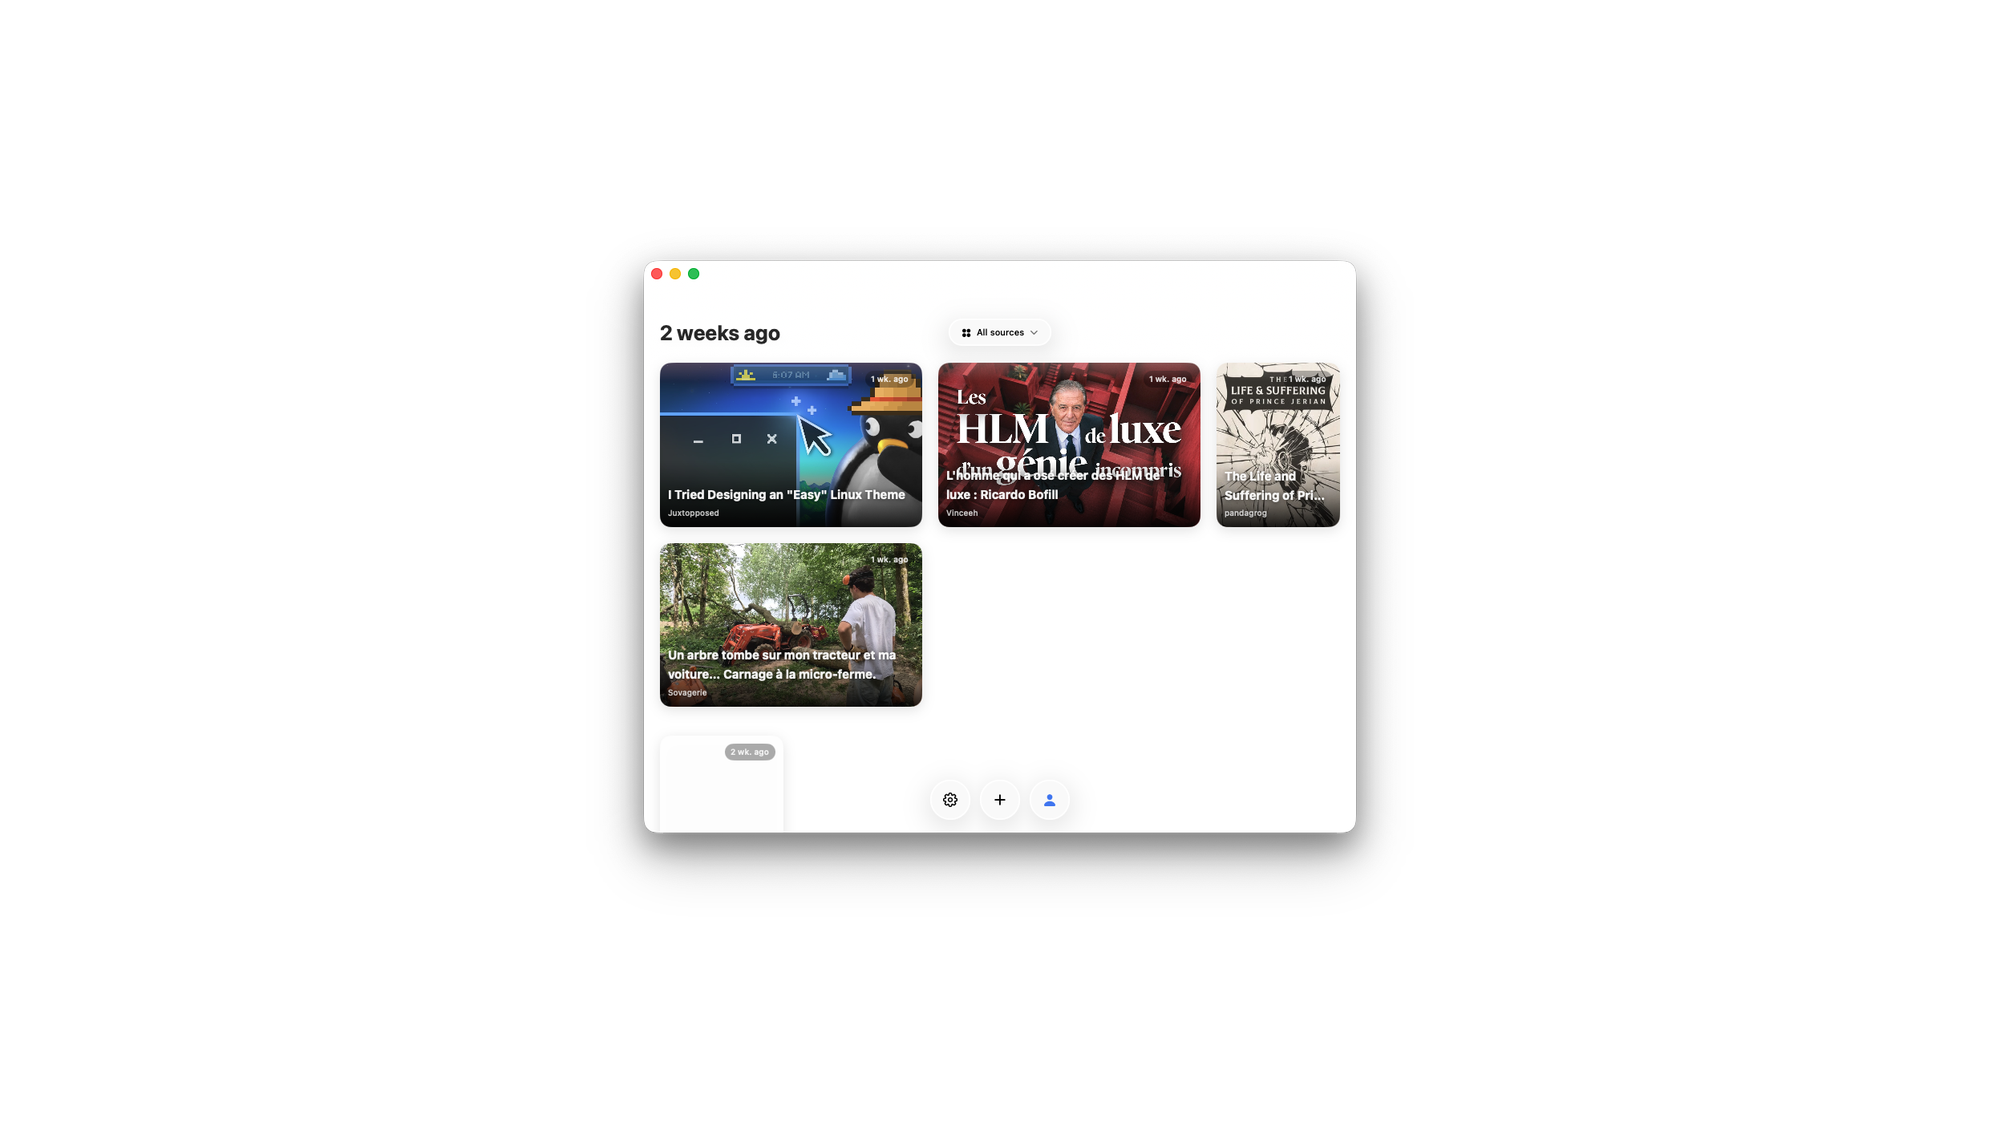
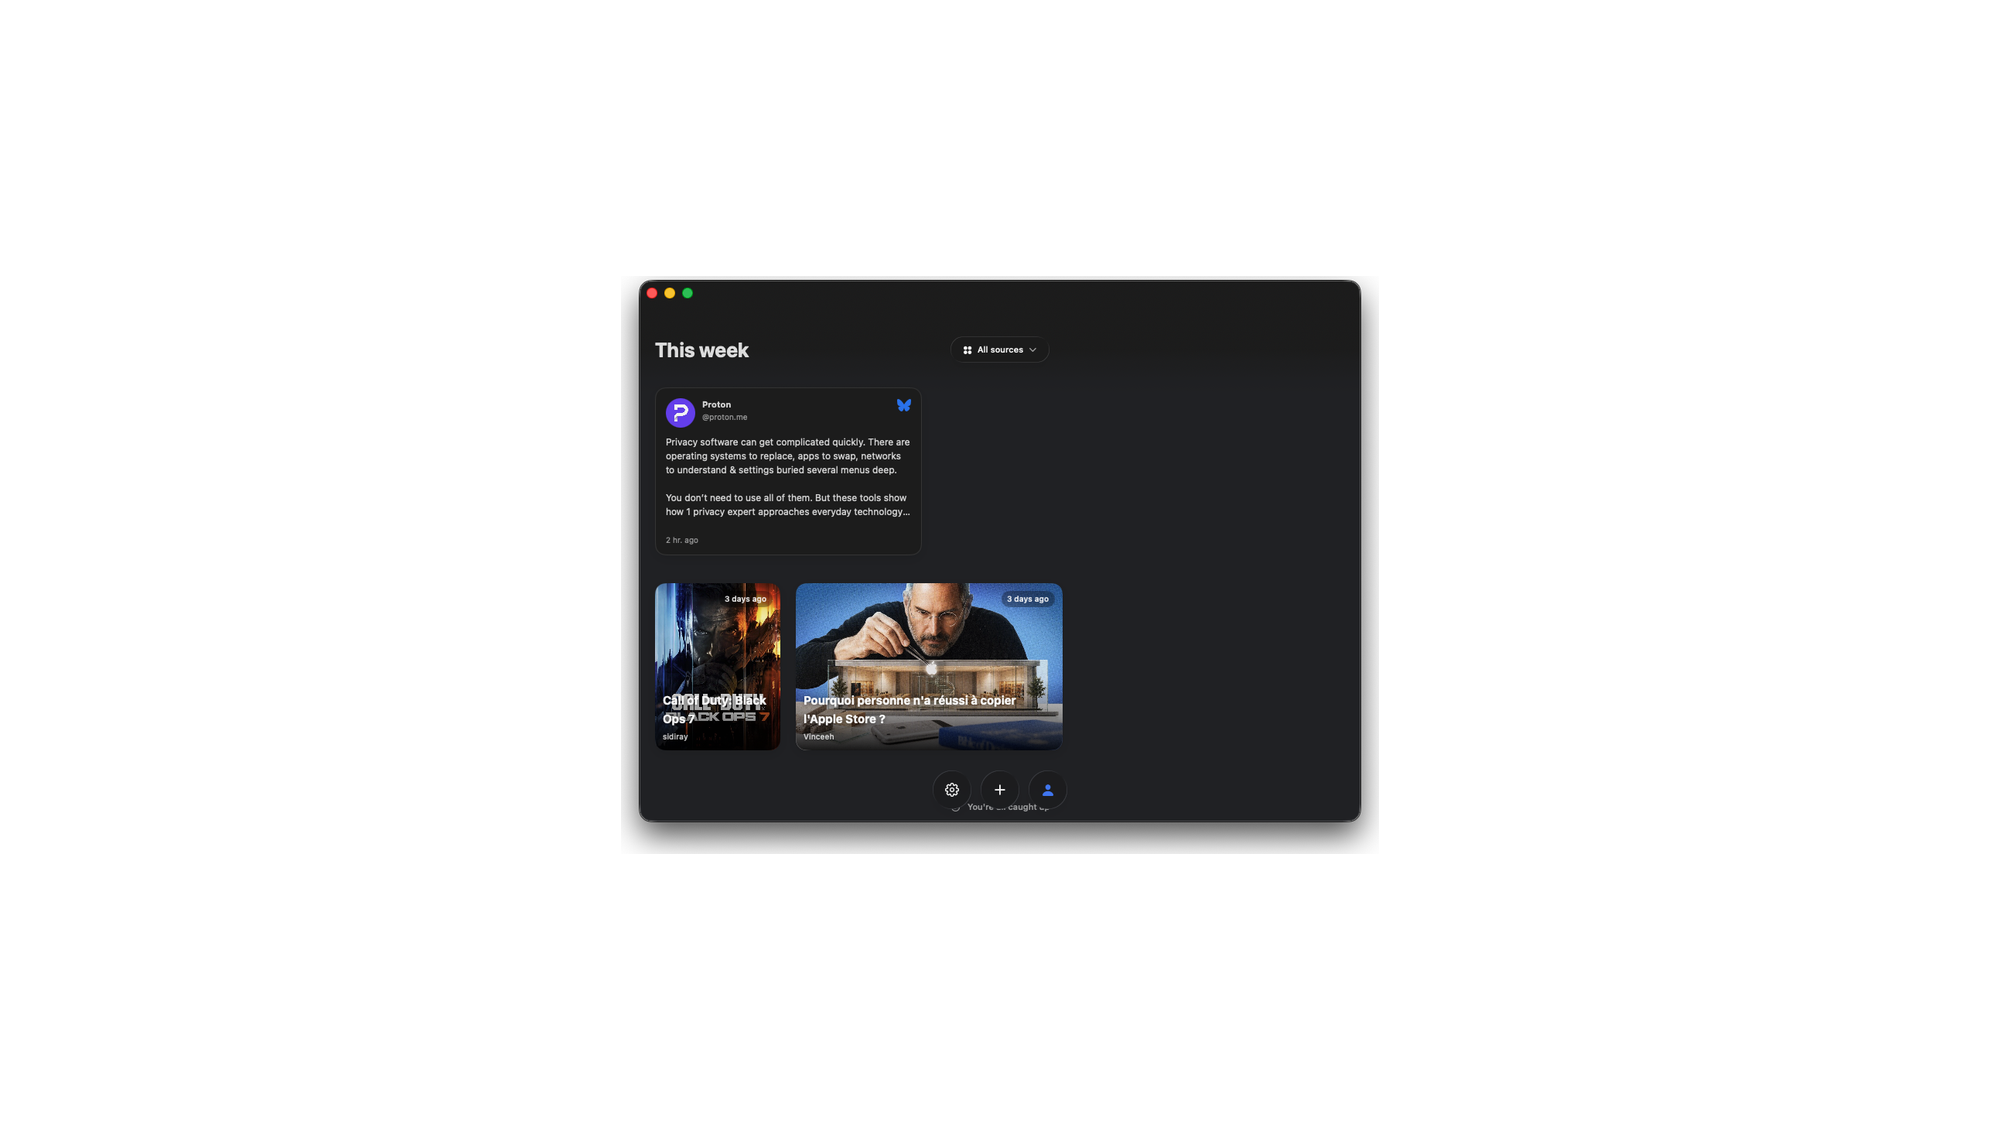
Reed: new screenshot set as Tahoe-desktop mockups + refreshed home tile
Replace the four old Reed shots with six new captures (feed, add-source,
video article, chaptered game review, Letterboxd film log, profiles), each
composited onto the macOS wallpaper like the home tiles. Rebuild the homepage
Reed tile (fg-reed.png) with the new 'This week' feed screen, matched to the
existing window frame. Update the SoftwareApplication screenshot list.

Changed region(s): [[0.31, 0.2178, 0.682, 0.7778]]

diff --git a/reed/index.html b/reed/index.html
@@ -34,7 +34,7 @@
   <link rel="apple-touch-icon" href="/assets/apple-touch-icon.png?v=4" />
   <link rel="stylesheet" href="/styles.css" />
   <script type="application/ld+json">
-  {"@context":"https://schema.org","@type":"SoftwareApplication","isPartOf":{"@id":"https://buildtoberemembered.com/#website"},"name":"Reed","operatingSystem":"macOS 26+","softwareVersion":"1.26.09","applicationCategory":"NewsApplication","description":"A native macOS RSS reader that pulls websites, YouTube, Are.na and Backloggd into one clean, unified feed.","url":"https://buildtoberemembered.com/reed/","image":"https://buildtoberemembered.com/assets/og/reed.jpg","screenshot":["https://buildtoberemembered.com/assets/work/reed-1.jpg","https://buildtoberemembered.com/assets/work/reed-2.png","https://buildtoberemembered.com/assets/work/reed-3.png","https://buildtoberemembered.com/assets/work/reed-4.png"],"featureList":["One unified feed for websites, YouTube, Are.na and Backloggd","Auto-detects the source type from a pasted link","Built-in YouTube player","Shareable source profiles","Fully local — no account or sign-up"],"downloadUrl":"https://github.com/02-alt/btbr-website/releases/download/reed/Reed-1.26.09.2.dmg","installUrl":"https://github.com/02-alt/btbr-website/releases/download/reed/Reed-1.26.09.2.dmg","fileSize":"5.8 MB","datePublished":"2025","inLanguage":"en","offers":{"@type":"Offer","price":"0","priceCurrency":"USD","availability":"https://schema.org/InStock"},"author":{"@type":"Person","name":"Isaac","url":"https://buildtoberemembered.com/about/"},"publisher":{"@id":"https://buildtoberemembered.com/#org","@type":"Organization","name":"builtoberemembered","url":"https://buildtoberemembered.com/","logo":"https://buildtoberemembered.com/assets/apple-touch-icon.png","sameAs":["https://buymeacoffee.com/builttoberemembered"]}}
+  {"@context":"https://schema.org","@type":"SoftwareApplication","isPartOf":{"@id":"https://buildtoberemembered.com/#website"},"name":"Reed","operatingSystem":"macOS 26+","softwareVersion":"1.26.09","applicationCategory":"NewsApplication","description":"A native macOS RSS reader that pulls websites, YouTube, Are.na and Backloggd into one clean, unified feed.","url":"https://buildtoberemembered.com/reed/","image":"https://buildtoberemembered.com/assets/og/reed.jpg","screenshot":["https://buildtoberemembered.com/assets/work/reed-1.jpg","https://buildtoberemembered.com/assets/work/reed-2.jpg","https://buildtoberemembered.com/assets/work/reed-3.jpg","https://buildtoberemembered.com/assets/work/reed-4.jpg","https://buildtoberemembered.com/assets/work/reed-5.jpg","https://buildtoberemembered.com/assets/work/reed-6.jpg"],"featureList":["One unified feed for websites, YouTube, Are.na and Backloggd","Auto-detects the source type from a pasted link","Built-in YouTube player","Shareable source profiles","Fully local — no account or sign-up"],"downloadUrl":"https://github.com/02-alt/btbr-website/releases/download/reed/Reed-1.26.09.2.dmg","installUrl":"https://github.com/02-alt/btbr-website/releases/download/reed/Reed-1.26.09.2.dmg","fileSize":"5.8 MB","datePublished":"2025","inLanguage":"en","offers":{"@type":"Offer","price":"0","priceCurrency":"USD","availability":"https://schema.org/InStock"},"author":{"@type":"Person","name":"Isaac","url":"https://buildtoberemembered.com/about/"},"publisher":{"@id":"https://buildtoberemembered.com/#org","@type":"Organization","name":"builtoberemembered","url":"https://buildtoberemembered.com/","logo":"https://buildtoberemembered.com/assets/apple-touch-icon.png","sameAs":["https://buymeacoffee.com/builttoberemembered"]}}
   </script>
   <script type="application/ld+json">
   {"@context":"https://schema.org","@type":"FAQPage","mainEntity":[{"@type":"Question","name":"What is Reed?","acceptedAnswer":{"@type":"Answer","text":"A native macOS RSS reader that pulls all your sources — websites, YouTube channels, Are.na and Backloggd — into one clean, unified feed."}},{"@type":"Question","name":"What sources can I add?","acceptedAnswer":{"@type":"Answer","text":"YouTube channels, Are.na channels, Backloggd, and any standard RSS or Atom feed. Paste a link and Reed detects the source type automatically."}},{"@type":"Question","name":"Do I need an account?","acceptedAnswer":{"@type":"Answer","text":"No. Reed is fully local — no sign-up, no login. Your feeds live on your Mac."}},{"@type":"Question","name":"Can I share my feeds with someone?","acceptedAnswer":{"@type":"Answer","text":"Yes. Group your sources into a profile and share the set with a friend — they can import it in a tap."}},{"@type":"Question","name":"Can I watch YouTube inside the app?","acceptedAnswer":{"@type":"Answer","text":"Yes — YouTube items open in a built-in player, so you don't have to leave Reed."}},{"@type":"Question","name":"What do I need to run it?","acceptedAnswer":{"@type":"Answer","text":"A Mac running macOS 26 or later. If macOS says it can't verify the developer on first launch, right-click the app and choose Open."}},{"@type":"Question","name":"What's new in this version?","acceptedAnswer":{"@type":"Answer","text":"This build adds a command palette (⌘K) to run any action — search, saved, profiles, filters — plus quick search (⌘S) across your whole feed, saved articles you can keep for later, and two new source types: Bluesky profiles and podcasts with a built-in player."}},{"@type":"Question","name":"What version is this?","acceptedAnswer":{"@type":"Answer","text":"1.26.09. Updates are dated — numbered 1.YY.MM (year then month), so this build is from September 2026. That way you can always tell how recent your copy is."}},{"@type":"Question","name":"How much does it cost?","acceptedAnswer":{"@type":"Answer","text":"Free."}}]}
@@ -69,10 +69,12 @@
       </div>
 
       <div class="shots">
-        <figure class="shot"><img src="/assets/work/reed-1.jpg" width="2299" height="1293" loading="eager" fetchpriority="high" decoding="async" alt="Reed feed grid on the desktop" /><figcaption>Every source, one unified feed</figcaption></figure>
-        <figure class="shot"><img src="/assets/work/reed-2.png" width="1141" height="932" loading="lazy" decoding="async" alt="Reed add-source search with supported sources" /><figcaption>Add YouTube, Are.na, Backloggd or any RSS feed</figcaption></figure>
-        <figure class="shot"><img src="/assets/work/reed-3.png" width="1097" height="888" loading="lazy" decoding="async" alt="Reed profiles and shared feed settings" /><figcaption>Group sources into profiles you can share</figcaption></figure>
-        <figure class="shot"><img src="/assets/work/reed-4.png" width="1141" height="932" loading="lazy" decoding="async" alt="Reed article detail view with embedded video" /><figcaption>Read and watch without leaving the app</figcaption></figure>
+        <figure class="shot"><img src="/assets/work/reed-1.jpg?v=2" width="2000" height="1125" loading="eager" fetchpriority="high" decoding="async" alt="Reed unified feed grid on the macOS desktop" /><figcaption>Every source, one unified feed</figcaption></figure>
+        <figure class="shot"><img src="/assets/work/reed-2.jpg?v=2" width="2000" height="1125" loading="lazy" decoding="async" alt="Reed add-source search showing supported sources" /><figcaption>Paste a link — YouTube, Are.na, Bluesky, Letterboxd, Backloggd or RSS</figcaption></figure>
+        <figure class="shot"><img src="/assets/work/reed-3.jpg?v=2" width="2000" height="1125" loading="lazy" decoding="async" alt="Reed article view with a built-in video player" /><figcaption>Read and watch without leaving the app</figcaption></figure>
+        <figure class="shot"><img src="/assets/work/reed-4.jpg?v=2" width="2000" height="1125" loading="lazy" decoding="async" alt="Reed game review detail with chapters" /><figcaption>Long reviews, chaptered so you can skim</figcaption></figure>
+        <figure class="shot"><img src="/assets/work/reed-5.jpg?v=2" width="2000" height="1125" loading="lazy" decoding="async" alt="Reed film log from Letterboxd" /><figcaption>Film logs from Letterboxd, right in your feed</figcaption></figure>
+        <figure class="shot"><img src="/assets/work/reed-6.jpg?v=2" width="2000" height="1125" loading="lazy" decoding="async" alt="Reed profiles with shareable source codes" /><figcaption>Group sources into profiles you can share</figcaption></figure>
       </div>
     </main>
 

diff --git a/index.html b/index.html
@@ -65,7 +65,7 @@
       <a class="tile" href="/reed/">
         <span class="tile-img">
           <img class="tile-bg" src="/assets/work/tahoe-bg.jpg" alt="" aria-hidden="true" />
-          <img class="tile-app" src="/assets/work/fg-reed.png" alt="Reed on macOS" />
+          <img class="tile-app" src="/assets/work/fg-reed.png?v=2" alt="Reed on macOS" />
         </span>
         <span class="tile-cap">Reed · RSS Reader</span>
       </a>
